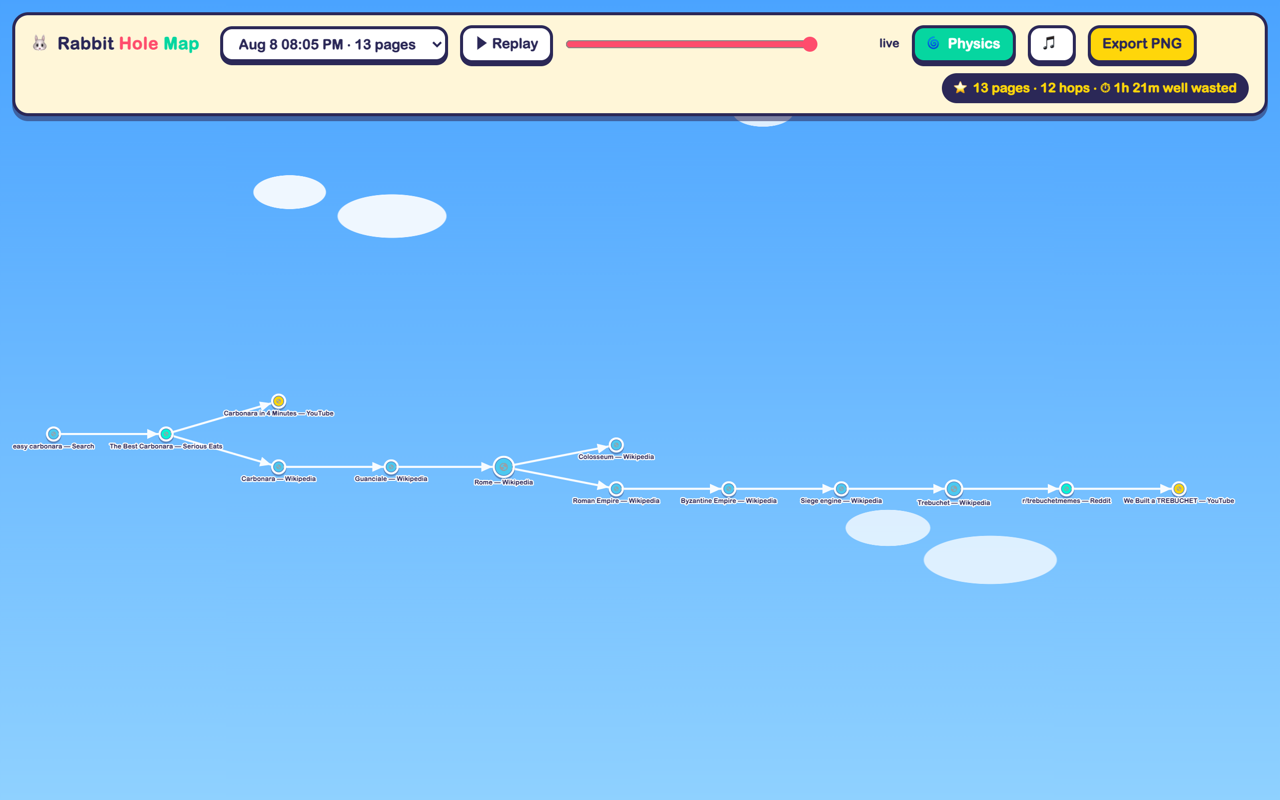
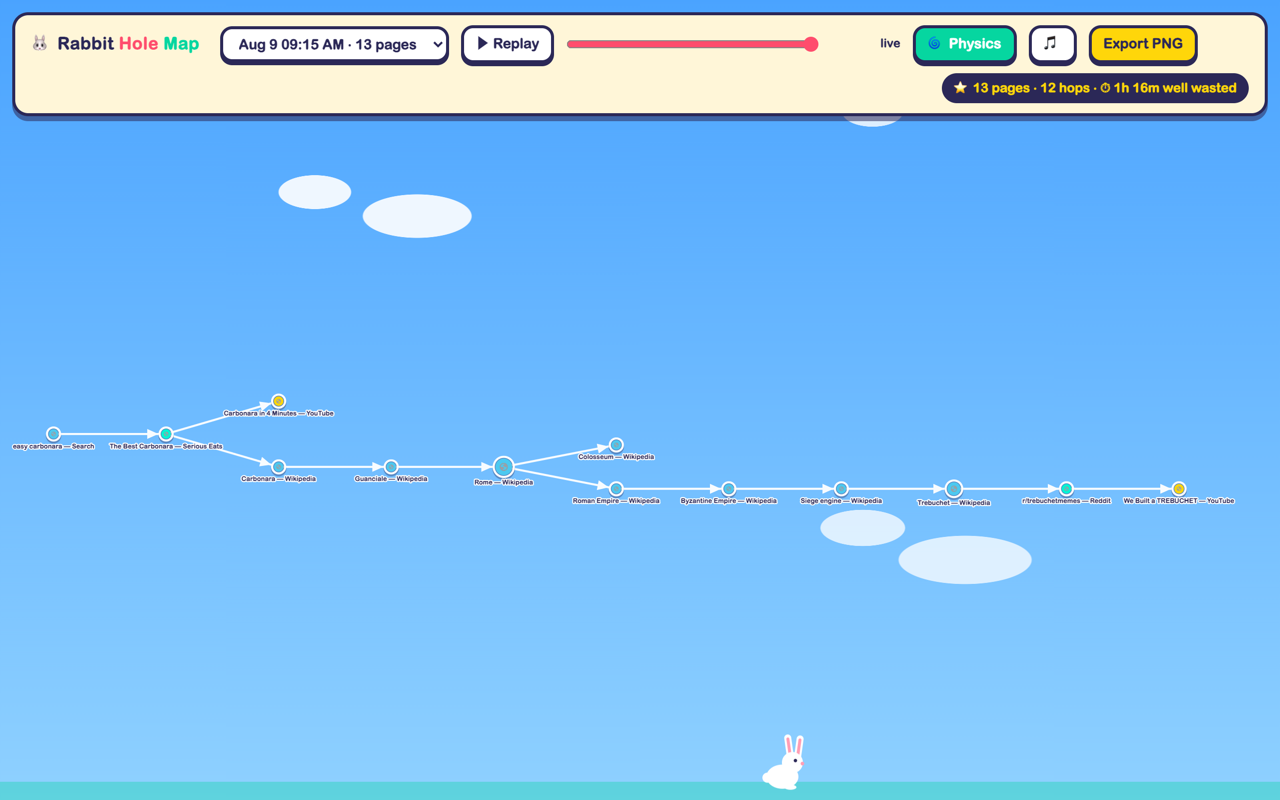
Release v1.2.5: rabbit mascot (carrots, growth, monster frenzy, hunger)
Bump to 1.2.5, roll the changelog, refresh HANDOFF status and design
notes, regenerate store screenshots with the rabbit in frame, and
package release/rabbit-hole-map-1.2.5.zip (16 unit + 16 e2e tests green
before packaging).

Claude-Session: https://claude.ai/code/session_01TUd446QmBULFrmDNtVU2uD

diff --git a/HANDOFF.md b/HANDOFF.md
@@ -5,12 +5,14 @@ State of the project as of 2026-08-08, for whoever picks it up next
 
 ## Status
 
-**v1.2.4, store-ready.** All tests green: 14 unit tests (`npm test`) and a
-12-assertion puppeteer e2e (`npm run e2e`). The complete Web Store submission
-package exists: `release/rabbit-hole-map-1.2.4.zip` (upload this one; older
-zips carry the old spiral icon / lack Untangle), listing copy in
-`docs/STORE_LISTING.md`, assets in `marketing/store/`, privacy docs in place.
-Not yet uploaded to the store. Git tags `v1.2.3`, `v1.2.4` mark releases.
+**v1.2.5, store-ready.** All tests green: 16 unit tests (`npm test`) and 16
+Playwright e2e tests (`npm run e2e`), both enforced by GitHub Actions CI on
+every push. The complete Web Store submission package exists:
+`release/rabbit-hole-map-1.2.5.zip` (upload this one; older zips predate the
+rabbit mascot / monster frenzy / hunger decay), listing copy in
+`docs/STORE_LISTING.md`, assets in `marketing/store/`, privacy docs in
+place. Not yet uploaded to the store. Git tags `v1.2.3`…`v1.2.5` mark
+releases.
 
 ## How it works, in one paragraph
 
@@ -54,6 +56,17 @@ simulation and live-updates via `chrome.storage.onChanged`.
 - **Icon**: a code-drawn white rabbit peeking from its hole
   (`gen-icons.mjs`, hand-rolled PNG encoder, no image deps). The store icon
   and promo tiles derive from it — regenerate assets after icon changes.
+- **The rabbit** (`src/map/rabbit.ts`): screen-space burrow layer with an
+  idle/roam/alert/chase/eat state machine ticked from the map's rAF loop.
+  Live-added sites drop carrots (same `soundArmed` guard as the blips).
+  Progression is pure and unit-tested in model.ts: `rabbitGrowth` (+25%
+  compounding at 5/10/20/40/60 eaten, 1.5x bites after the first
+  milestone), `hungerShrink` (-10% per 30s unfed, floors at 1.0). A
+  milestone triggers a 10s monster frenzy (fangs/red eyes/aura via
+  `setMonster`, 2x hops and bites, no alert pause). Chase locks ONE carrot
+  and arrives by distance tolerance — never a facing-dependent point
+  (regression: dithering between close carrots). Progress is per-page-load
+  by design.
 
 ## Known quirks / bugs already fixed once (don't regress)
 

diff --git a/CHANGELOG.md b/CHANGELOG.md
@@ -3,7 +3,7 @@
 Versioning is odometer-style: minor/patch are single digits that carry over
 (1.1.9 → 1.2.0). Bump with `npm run bump`.
 
-## [Unreleased]
+## [1.2.5] — 2026-08-09
 
 - **Monster feeding frenzy** — hitting a growth milestone transforms the
   rabbit for 10 seconds: glowing red eyes, fangs, a pulsing dark aura, and
